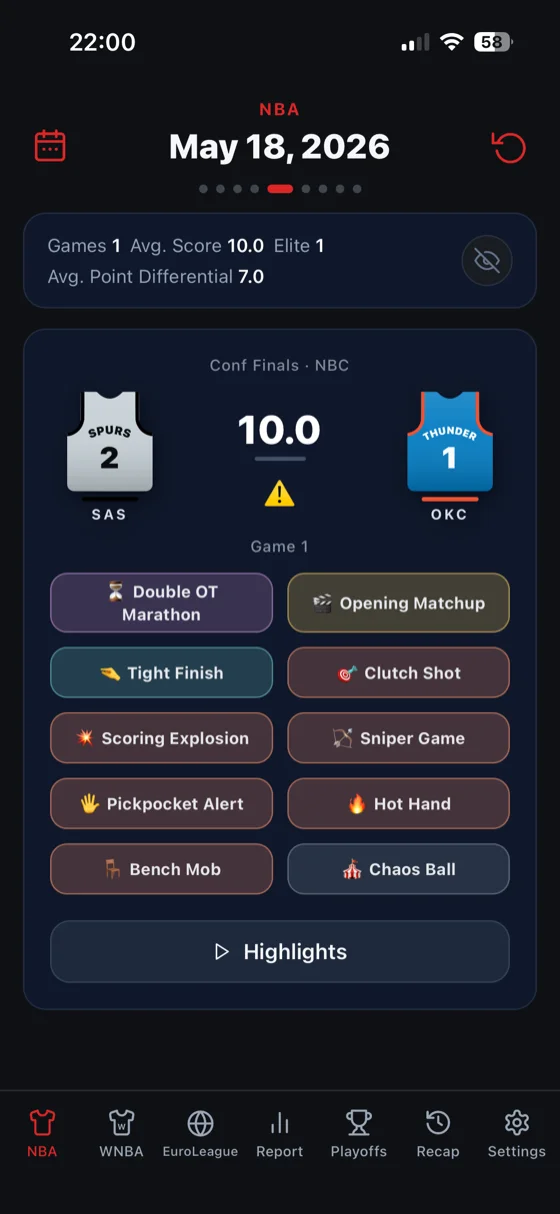
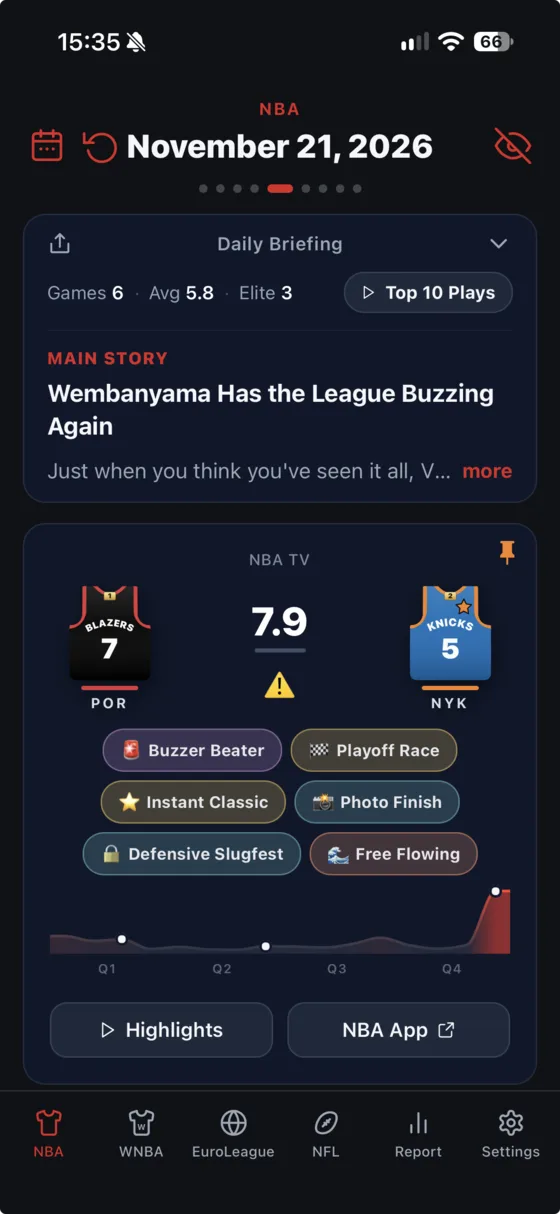
Update image on landing page

diff --git a/index.html b/index.html
@@ -220,7 +220,7 @@
       </div>
     </div>
     <div class="hero-phone reveal">
-      <img src="/images/Image01.webp" alt="HeatCheckr app screenshot 2 - game detail and highlights" width="280" height="607" />
+      <img src="/images/Image01.webp" alt="HeatCheckr app screenshot - Daily Briefing, excitement score, labels and HeatFlow chart" width="280" height="607" />
       <img src="/images/Image02.webp" alt="HeatCheckr app screenshot 1 - game list and excitement scores" width="280" height="607" />
     </div>
   </div>
